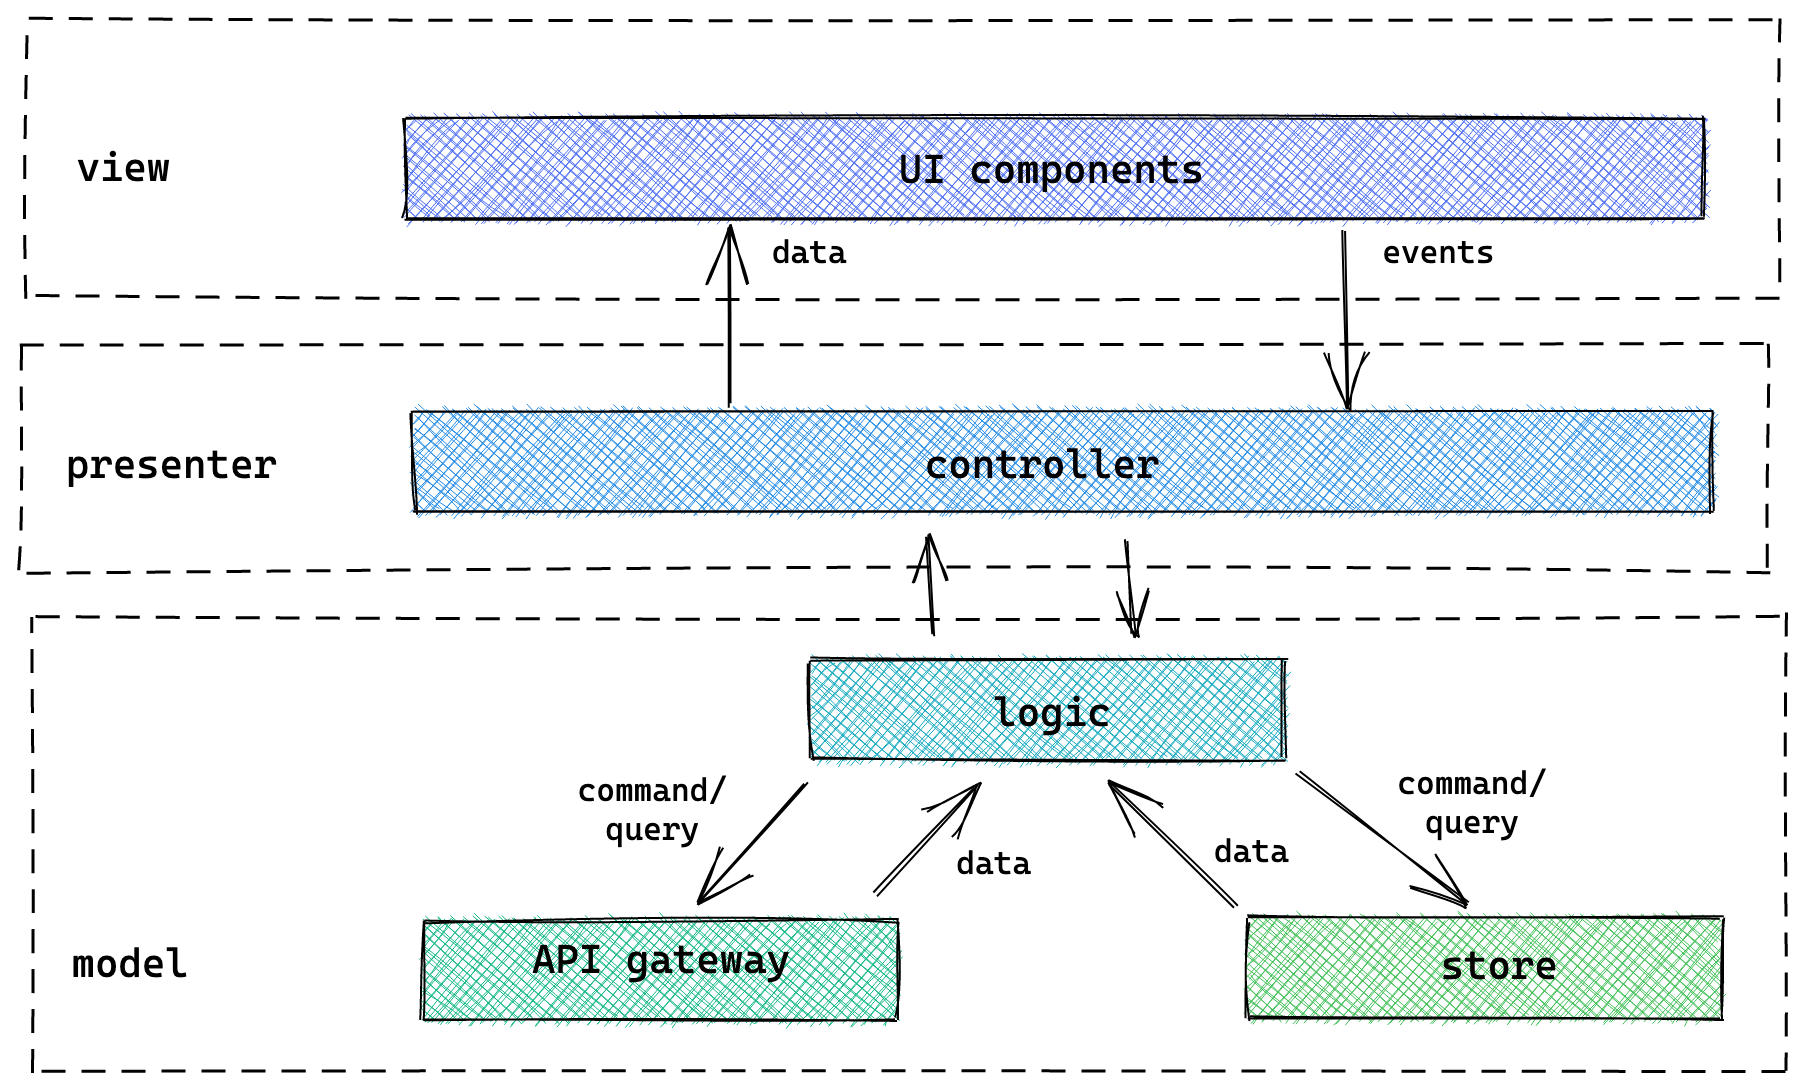
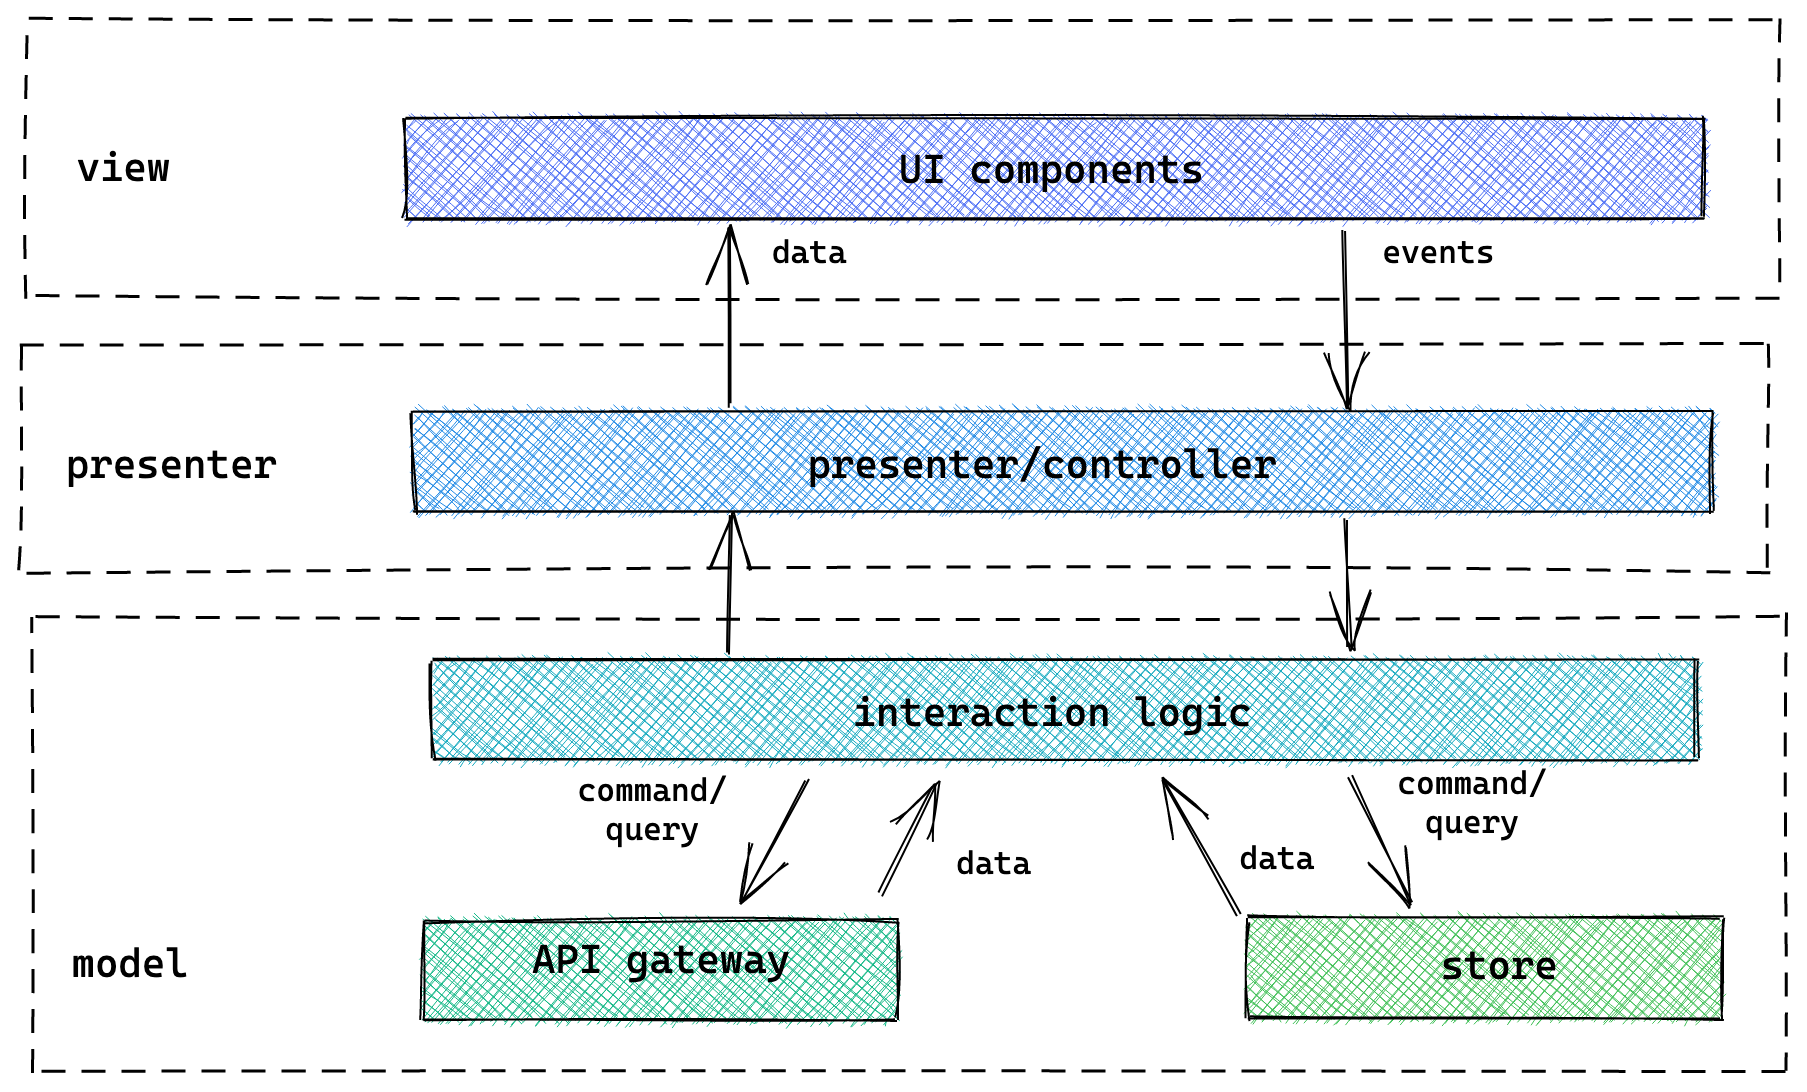
small update in text

diff --git a/README.md b/README.md
@@ -27,7 +27,7 @@ Modern client-side applications all resolve around reactivity. Based on user int
 
 ![](/images/mvp.png)
 
-Most of these elements are described in this reference guide. In the _logic_ block (corresponding to the interaction layer), decisions are made. This means that validations, transformations etc. required for commands/query happen in this layer.  
+Most of these elements are described in this reference guide. In the _interaction logic_ block (corresponding to the interaction layer), decisions are made. This means that validations, transformations etc. required for commands/query happen in this layer.  
 
 ### Composability
 Client-side application of digital enterprises are of a big size. They can have parts shared across different applications, have an application build around micro-services, etc. In line with modern frameworks, composability is a key principle in client-side development. It enables for development _agility_ and solution _scalability_.
